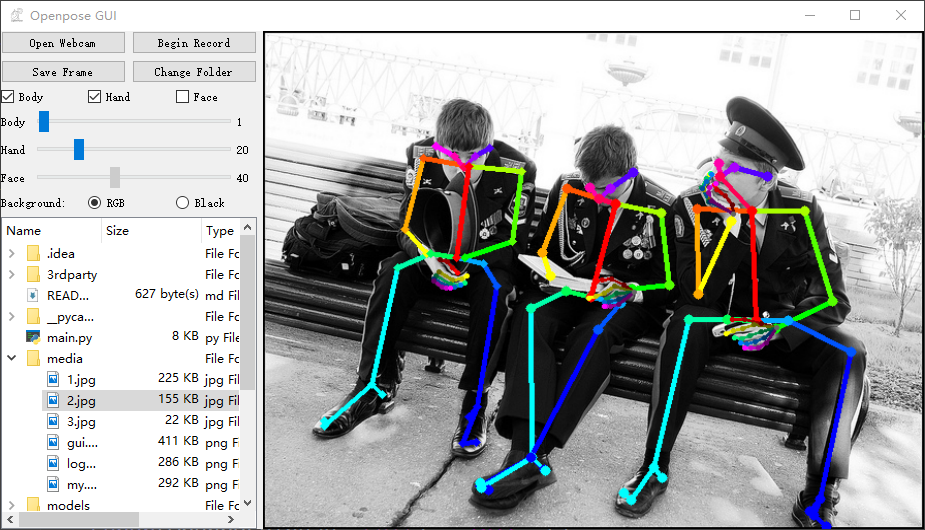
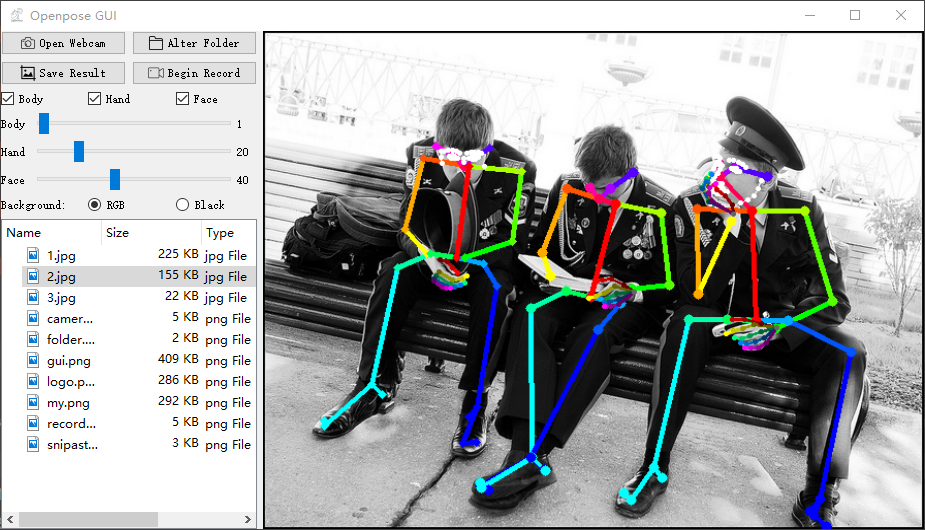
use timer instead of thread

diff --git a/openpose_gui.py b/openpose_gui.py
@@ -3,12 +3,11 @@ import sys
 import cv2
 import copy
 
-from PyQt5.QtCore import Qt
+from PyQt5.QtCore import Qt, QTimer
 from PyQt5.QtGui import QIcon, QImage, QPixmap
 from PyQt5.QtWidgets import QMainWindow, QApplication, QDirModel, QFileDialog, QMessageBox, QPushButton
 from PyQt5.uic import loadUi
 
-from openpose_thread import OpenposeThead
 from save_window import SaveWindow
 
 dir_path = os.path.dirname(os.path.realpath(__file__))
@@ -27,7 +26,6 @@ class MyApp(QMainWindow):
     def __init__(self):
         super(MyApp, self).__init__()
         loadUi("ui/main_window.ui", self)
-        # self.setupUi(self)
         self.setWindowTitle("Openpose GUI")
         self.setWindowIcon(QIcon('media/logo.png'))
 
@@ -49,7 +47,9 @@ class MyApp(QMainWindow):
         self.datum = op.Datum()
         self.op_wrapper = op.WrapperPython()
         self.tree_model = QDirModel()
-        self.openpose_thread = OpenposeThead(self.label_frame, self.op_wrapper, self.datum)
+        self.cap = cv2.VideoCapture()
+        self.timer = QTimer()
+        self.timer.timeout.connect(self.showFrame)
         self.save_window = SaveWindow()
         self.webcam_open = False
 
@@ -66,7 +66,6 @@ class MyApp(QMainWindow):
         self.op_wrapper.start()
 
     def initCheckBox(self):
-        # 初始化复选框
         self.checkBox_body.setChecked(False)  # 默认设置为选中
         self.checkBox_hand.setChecked(False)  # 默认设置为选中
         self.checkBox_face.setChecked(False)  # 默认设置为选中
@@ -74,7 +73,6 @@ class MyApp(QMainWindow):
         self.checkBox_hand.stateChanged.connect(self.checkHand)  # 状态改变触发check_box_changed函数
         self.checkBox_face.stateChanged.connect(self.checkFace)  # 状态改变触发check_box_changed函数
 
-        # 单选框
 
     def initRadioButton(self):
         self.radioButton_black.setEnabled(False)
@@ -82,7 +80,7 @@ class MyApp(QMainWindow):
         self.radioButton_black.setChecked(False)
         self.radioButton_rgb.setChecked(True)
         self.radioButton_black.toggled.connect(self.changeBackground)
-        self.radioButton_rgb.toggled.connect(self.changeBackground)
+        # self.radioButton_rgb.toggled.connect(self.changeBackground)
 
     def initPushButton(self):
         self.pushButton_webcam.clicked.connect(self.runWebcam)
@@ -121,6 +119,11 @@ class MyApp(QMainWindow):
         # 图像显示标签
         self.label_frame.setScaledContents(True)
 
+    def showFrame(self):
+        _, frame = self.cap.read()
+        img = self.openposeImage(frame)
+        self.updateLabel(img)
+
     def treeClicked(self, file_index):
         file_name = self.tree_model.filePath(file_index)
         if file_name.endswith(('.jpg', '.png')):
@@ -138,10 +141,9 @@ class MyApp(QMainWindow):
         self.label_frame.setPixmap(pixmap)
 
     def openposeImage(self, img):
-        datum = op.Datum()
-        datum.cvInputData = img
-        self.op_wrapper.emplaceAndPop([datum])
-        result = datum.cvOutputData
+        self.datum.cvInputData = img
+        self.op_wrapper.emplaceAndPop([self.datum])
+        result = self.datum.cvOutputData
         result = cv2.cvtColor(result, cv2.COLOR_BGR2RGB)  # bgr -> rgb
         return result
 
@@ -150,7 +152,7 @@ class MyApp(QMainWindow):
             self.params['disable_blending'] = True
         else:
             self.params['disable_blending'] = False
-        self.update_wrapper()
+        self.updateWrapper()
 
     def changeFolder(self):
         folder_name = QFileDialog.getExistingDirectory(self, '标题', './')  # 可设置默认路径
@@ -163,7 +165,8 @@ class MyApp(QMainWindow):
         if pixmap:
             body_keypoint = copy.deepcopy(self.datum.poseKeypoints) if self.checkBox_body.isChecked() else None
             hand_keypoint = copy.deepcopy(self.datum.handKeypoints) if self.checkBox_hand.isChecked() else None
-            self.save_window.setFrame(pixmap.copy(), body_keypoint, hand_keypoint)
+            face_keypoint = copy.deepcopy(self.datum.faceKeypoints) if self.checkBox_face.isChecked() else None
+            self.save_window.setFrame(pixmap.copy(), body_keypoint, hand_keypoint, face_keypoint)
             self.save_window.show()
         else:
             QMessageBox.warning(self, "Note", "No data in frame", QMessageBox.Yes)
@@ -173,12 +176,15 @@ class MyApp(QMainWindow):
 
     def runWebcam(self):
         if self.webcam_open:
-            self.openpose_thread.terminate()
             self.webcam_open = False
+            self.cap.release()
+            self.label_frame.clear()
+            self.timer.stop()
             self.pushButton_webcam.setText("Open Webcam")
         else:
-            self.openpose_thread.start()
             self.webcam_open = True
+            self.cap.open(0)
+            self.timer.start(20)
             self.pushButton_webcam.setText("Stop Webcam")
 
     def checkBody(self, status):
@@ -188,49 +194,44 @@ class MyApp(QMainWindow):
         self.radioButton_black.setEnabled(flag)
         self.radioButton_rgb.setEnabled(flag)
         self.params["render_pose"] = render_pose
-        self.update_wrapper()
+        self.updateWrapper()
 
     def checkHand(self, status):
         flag = True if status == Qt.Checked else False
         self.horizontalSlider_Hand.setEnabled(flag)
         self.params["hand"] = flag
-        self.update_wrapper()
+        self.updateWrapper()
 
     def checkFace(self, status):
         flag = True if status == Qt.Checked else False
         self.horizontalSlider_Face.setEnabled(flag)
         self.params["face"] = flag
-        self.update_wrapper()
+        self.updateWrapper()
 
     def changeBodyThreshold(self):
         value = self.horizontalSlider_Body.value()
         print(value)
         self.params["render_threshold"] = value / 100
         self.label_threshold_body.setText(str(value))
-        self.update_wrapper()
+        self.updateWrapper()
 
     def changeHandThreshold(self):
         value = self.horizontalSlider_Hand.value()
         print(value)
         self.params["hand_render_threshold"] = value / 100
         self.label_threshold_hand.setText(str(value))
-        self.update_wrapper()
+        self.updateWrapper()
 
     def changeFaceThreshold(self):
         value = self.horizontalSlider_Face.value()
         print(value)
         self.params["face_render_threshold"] = value / 100
         self.label_threshold_face.setText(str(value))
-        self.update_wrapper()
+        self.updateWrapper()
 
-    def update_wrapper(self):
-        if self.webcam_open:
-            self.openpose_thread.terminate()
-            self.op_wrapper.configure(self.params)
-            self.openpose_thread.start()
-        else:
-            self.op_wrapper.configure(self.params)
-
+    def updateWrapper(self):
+        self.op_wrapper.configure(self.params)
+        self.op_wrapper.start()
 
 
 if __name__ == "__main__":

diff --git a/save_window.py b/save_window.py
@@ -9,10 +9,10 @@ class SaveWindow(QWidget):
     def __init__(self):
         super().__init__()
         loadUi("ui/save_window.ui", self)
-        # self.setupUi(self)
         self.setWindowTitle("Snipaste")
         self.body_keypoint = None
         self.hand_keypoint = None
+        self.face_keypoint = None
         self.pushButton_save.clicked.connect(self.saveCurrent)
         self.pushButton_cancel.clicked.connect(self.cancelSnipaste)
 
@@ -26,14 +26,18 @@ class SaveWindow(QWidget):
         if self.hand_keypoint is not None:
             np.save("{}_hand.npy".format(timestamp), self.hand_keypoint)
             self.hand_keypoint = None
+        if self.face_keypoint is not None:
+            np.save("{}_face.npy".format(timestamp), self.face_keypoint)
+            self.face_keypoint = None
         self.close()
 
     def cancelSnipaste(self):
         self.setHidden(True)
         self.close()
 
-    def setFrame(self, pixmap, body_keyppoint, hand_keypoint):
+    def setFrame(self, pixmap, body_keyppoint, hand_keypoint, face_keypoint):
         self.label_frame.setPixmap(pixmap)
         self.body_keypoint = body_keyppoint
         self.hand_keypoint = hand_keypoint
+        self.face_keypoint = face_keypoint
         self.show()
